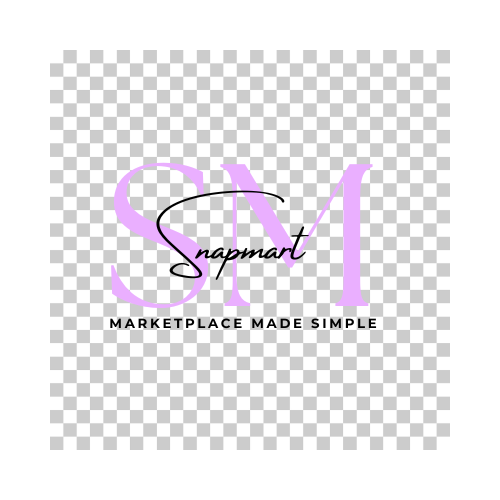
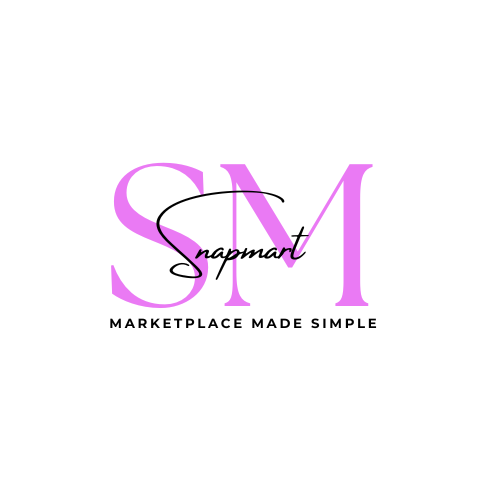
added transparent background

diff --git a/app/(auth)/page.tsx b/app/(auth)/page.tsx
@@ -52,11 +52,11 @@ export default function Home() {
             <div className="flex flex-col gap-4">
               <img
                 className="bg-white rounded-3xl w-72 h-64"
-                src="/feed.png"
+                src="https://github.com/shin101/snapmart/blob/main/public/product.png?raw=true"
               ></img>
               <img
                 className="bg-white rounded-3xl w-72 h-64"
-                src="/product.png"
+                src="https://github.com/shin101/snapmart/blob/main/public/feed.png?raw=true"
               ></img>
               <div className="bg-white rounded-3xl w-72 h-64"></div>
               <div className="bg-white rounded-3xl w-72 h-64"></div>
